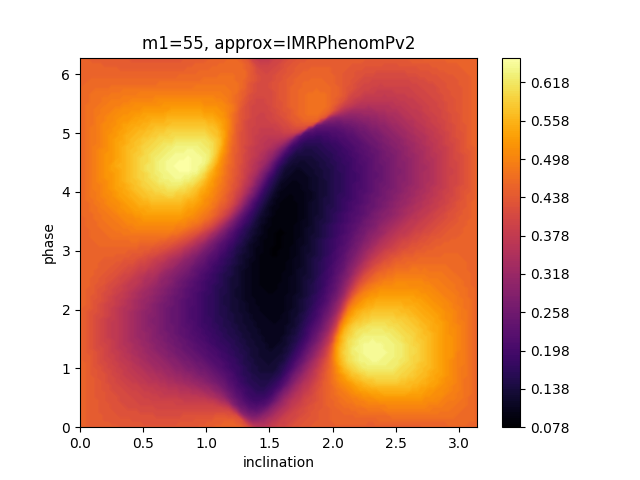
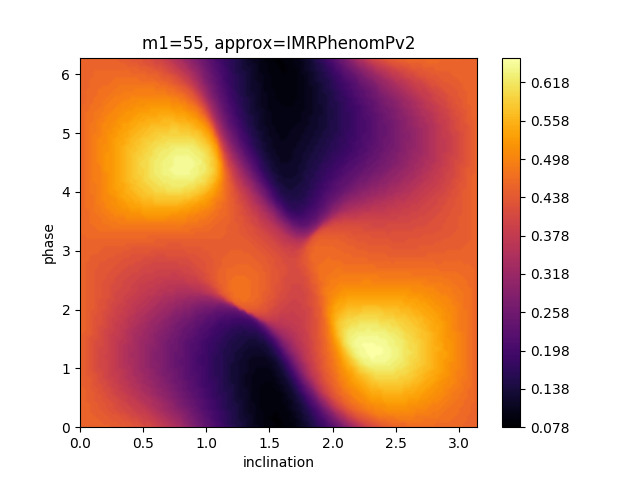
Regenerated phase plots

Changed region(s): [[0.1875, 0.125, 0.6875, 0.9062]]

diff --git a/Matching/2D_data/plotData.py b/Matching/2D_data/plotData.py
@@ -4,7 +4,7 @@ import matplotlib.pyplot as plt
 import pickle
 import numpy as np
 
-fname="phase_inc_mixed"
+fname="phase_s20psi4"
 
 #Data saved in the form of x values, y values, z values
 x,y,z,specs=pickle.load(open("%s.p" % fname,"rb"))
